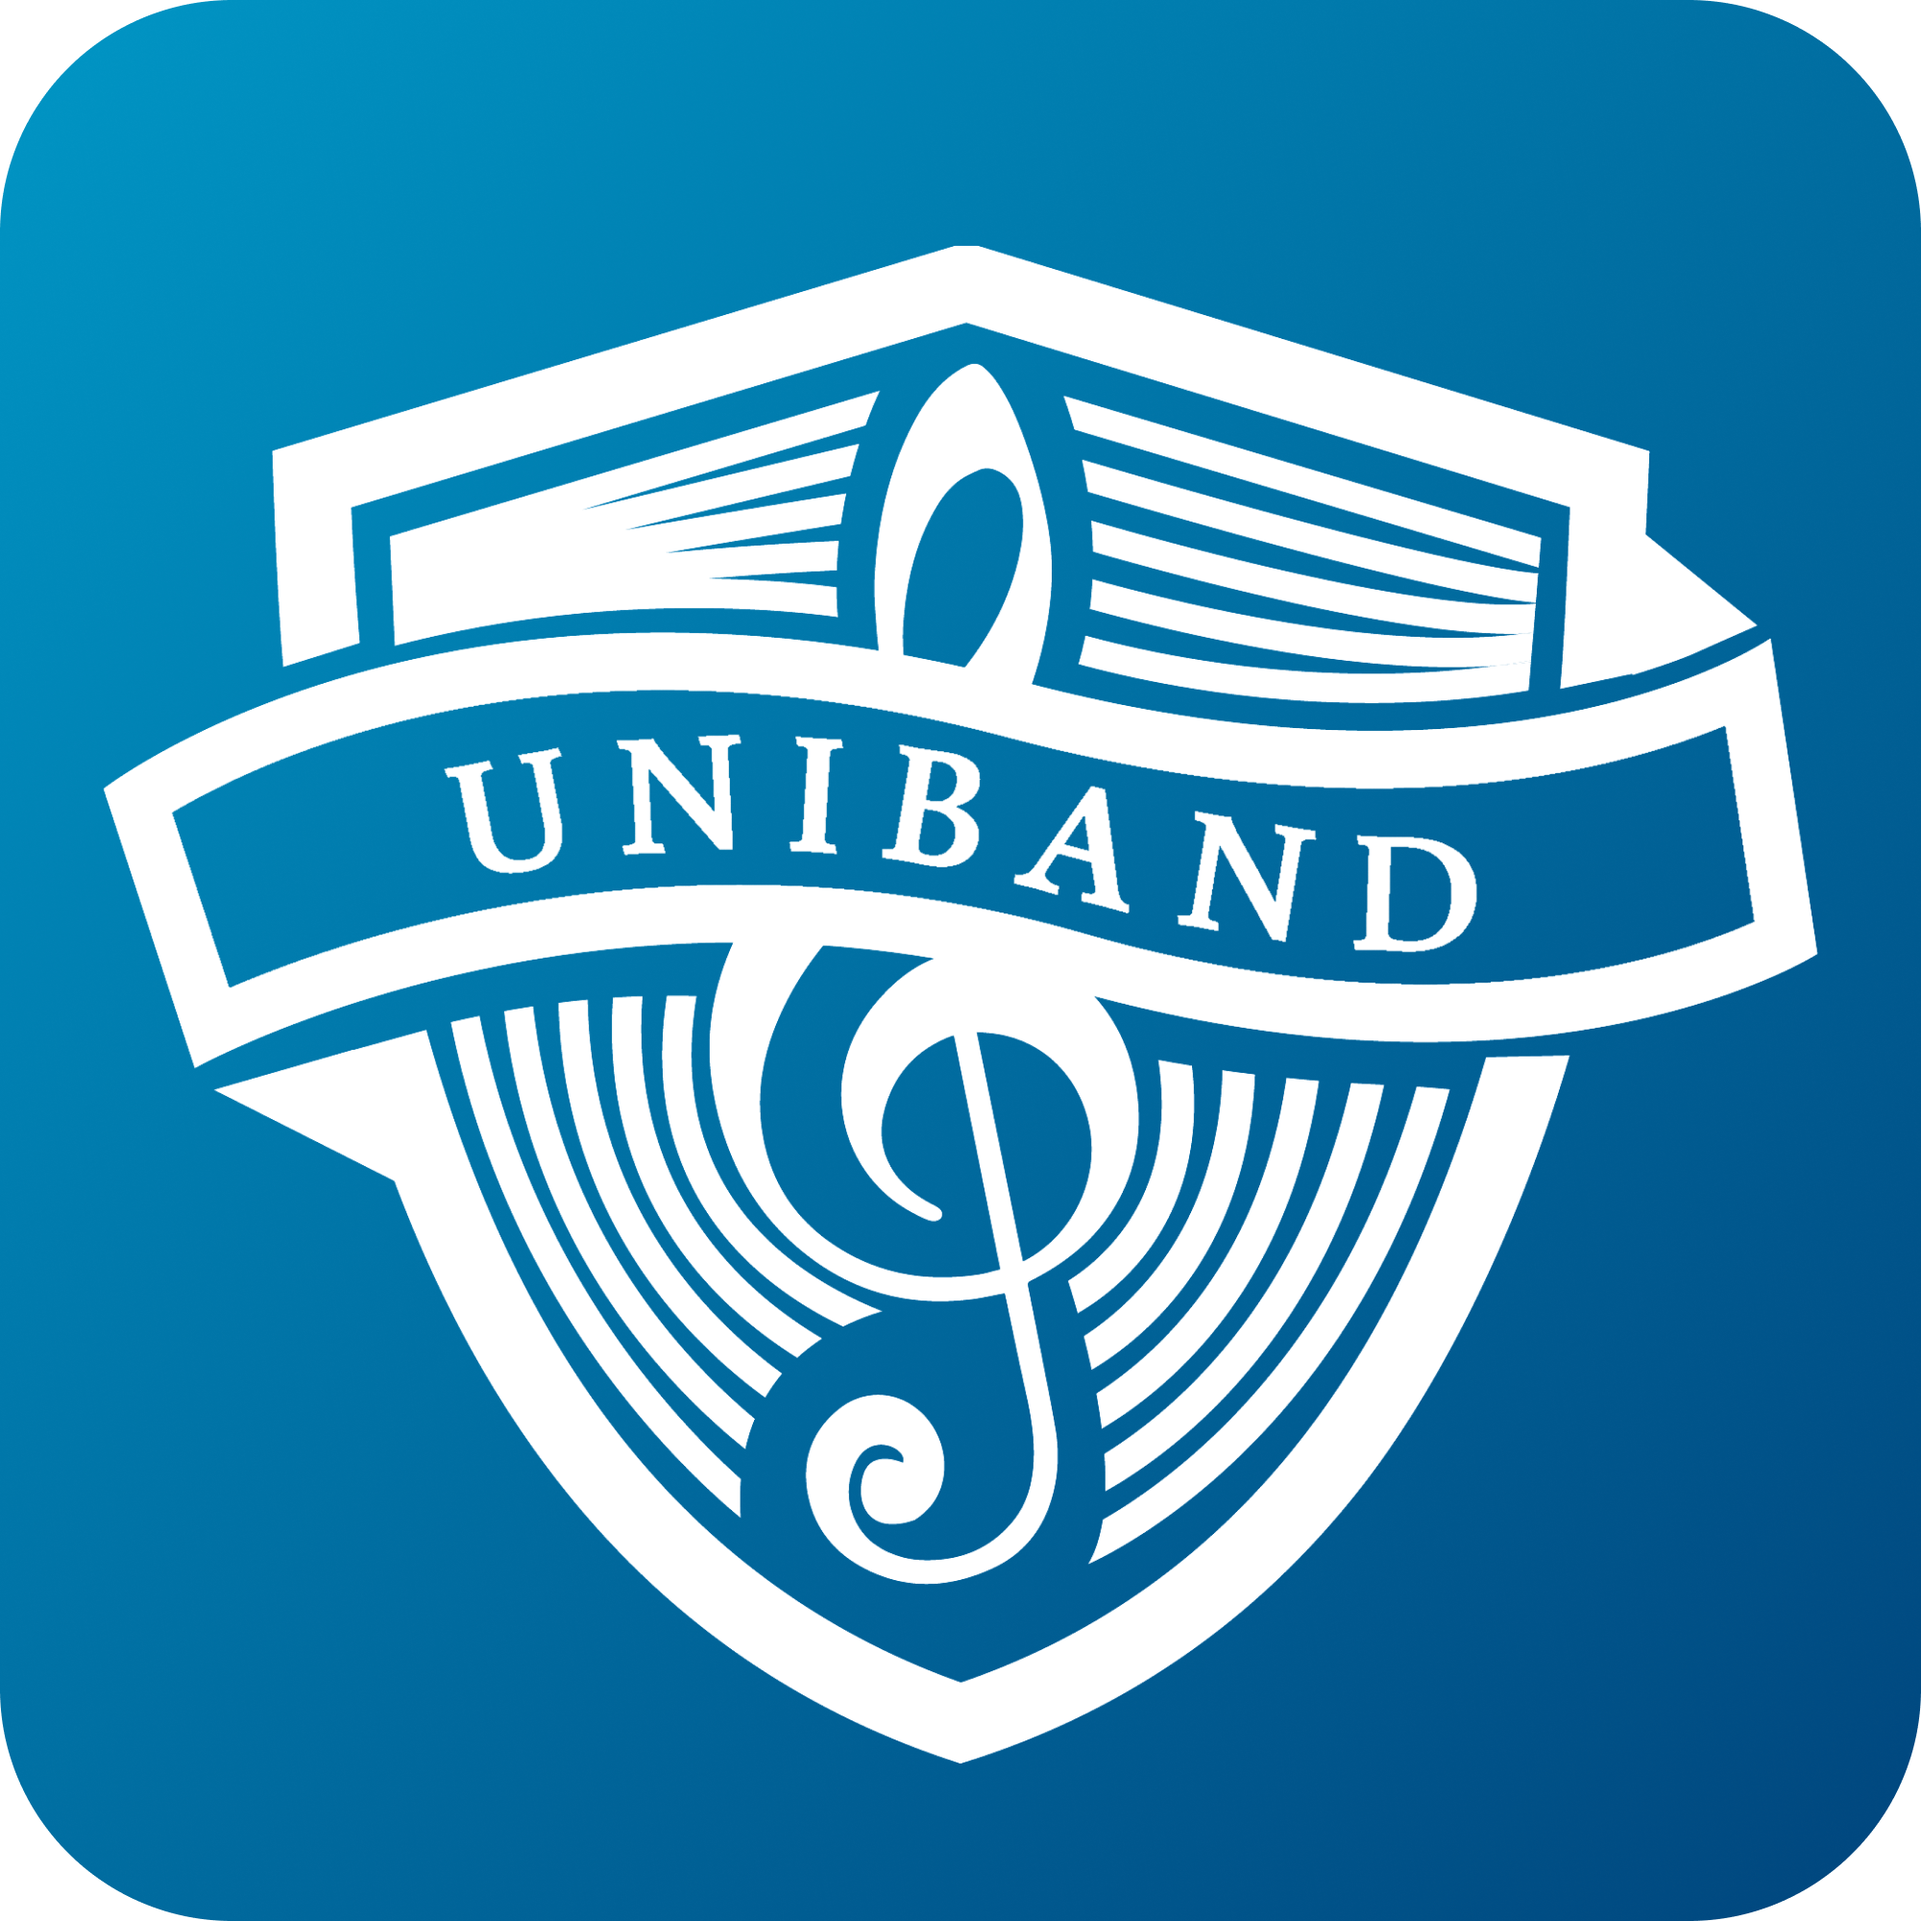
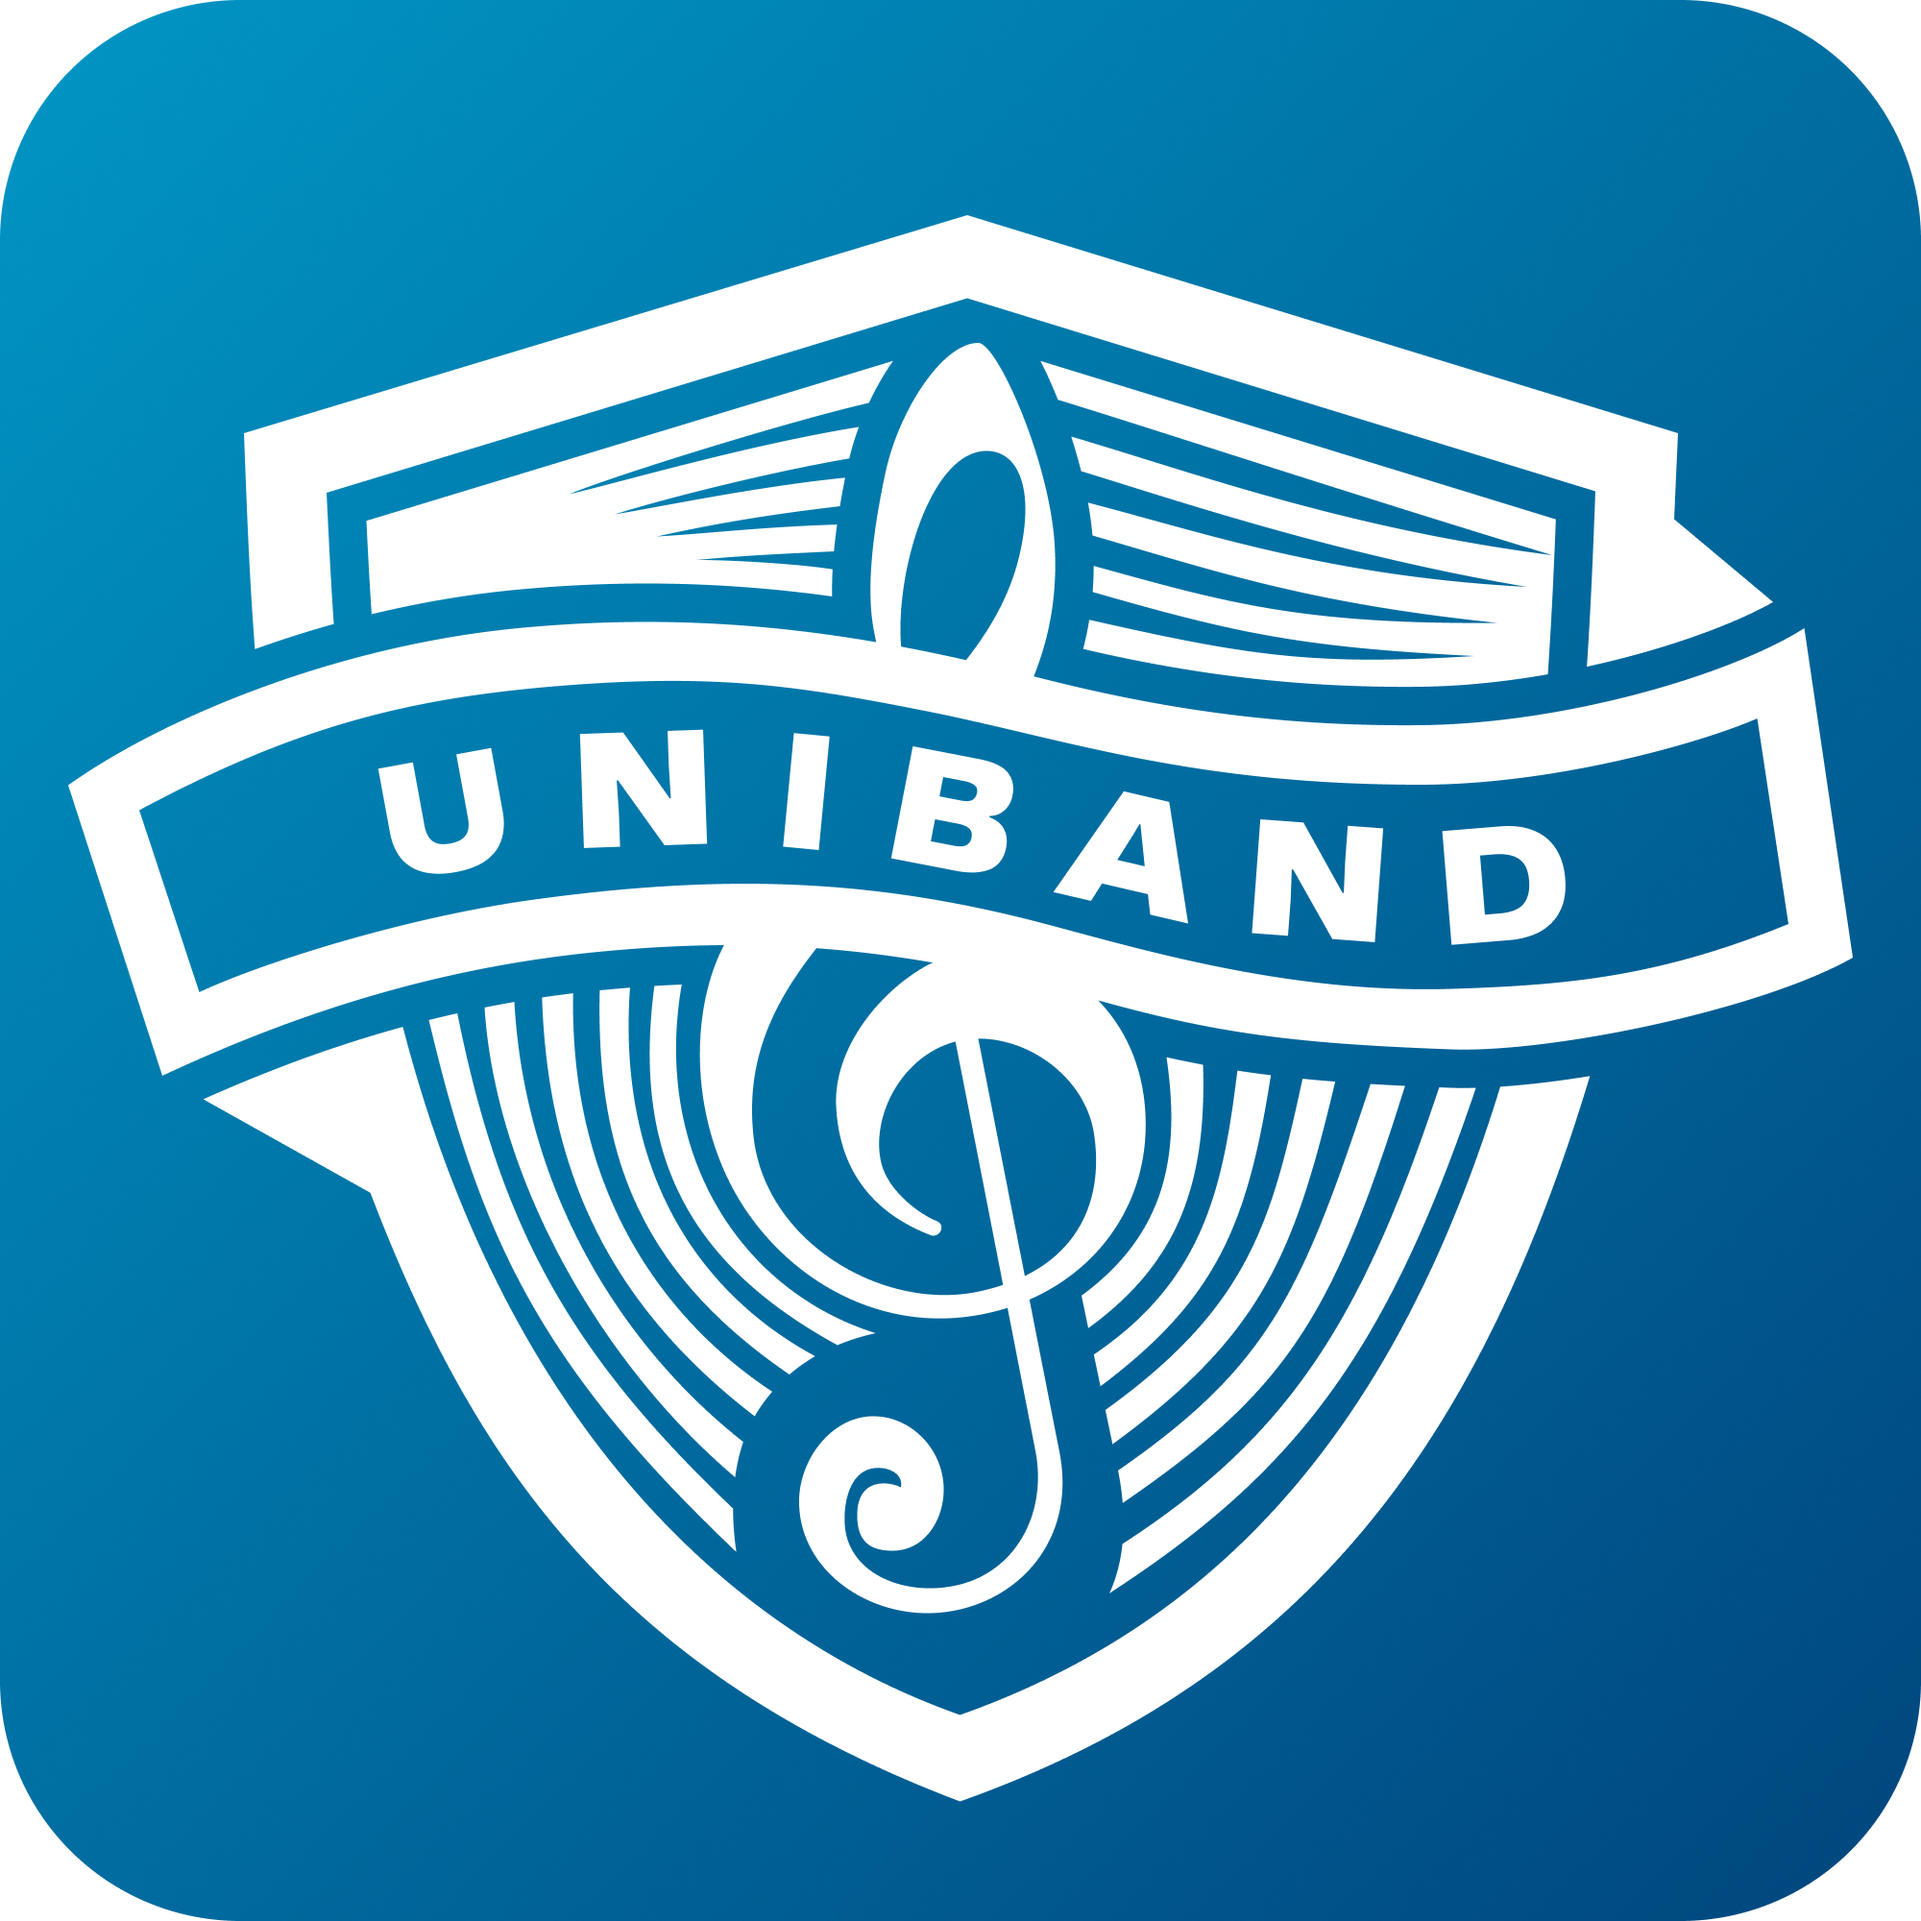
feat: branding update

diff --git a/src/components/header-footer/Header.tsx b/src/components/header-footer/Header.tsx
@@ -71,7 +71,7 @@ const HomeLink = styled.h1`
 const HomeLinkComponent = () => (
   <Link href="/" passHref>
     <HomeLink>
-      <Icon src="/UniBandLogo-white.png" alt="UniBand Logo" />
+      <Icon src="/logo_white.png" alt="UniBand Logo" />
       UniBand
     </HomeLink>
   </Link>

diff --git a/src/components/Event.tsx b/src/components/Event.tsx
@@ -218,7 +218,7 @@ export function EventComponent({
 
   const imageFragment = (
     <EventImage>
-      <HighlightImage src={imagePath ?? "UniBandLogo-spaced.png"} alt={title} />
+      <HighlightImage src={imagePath ?? "logo_spaced.png"} alt={title} />
     </EventImage>
   );
 
